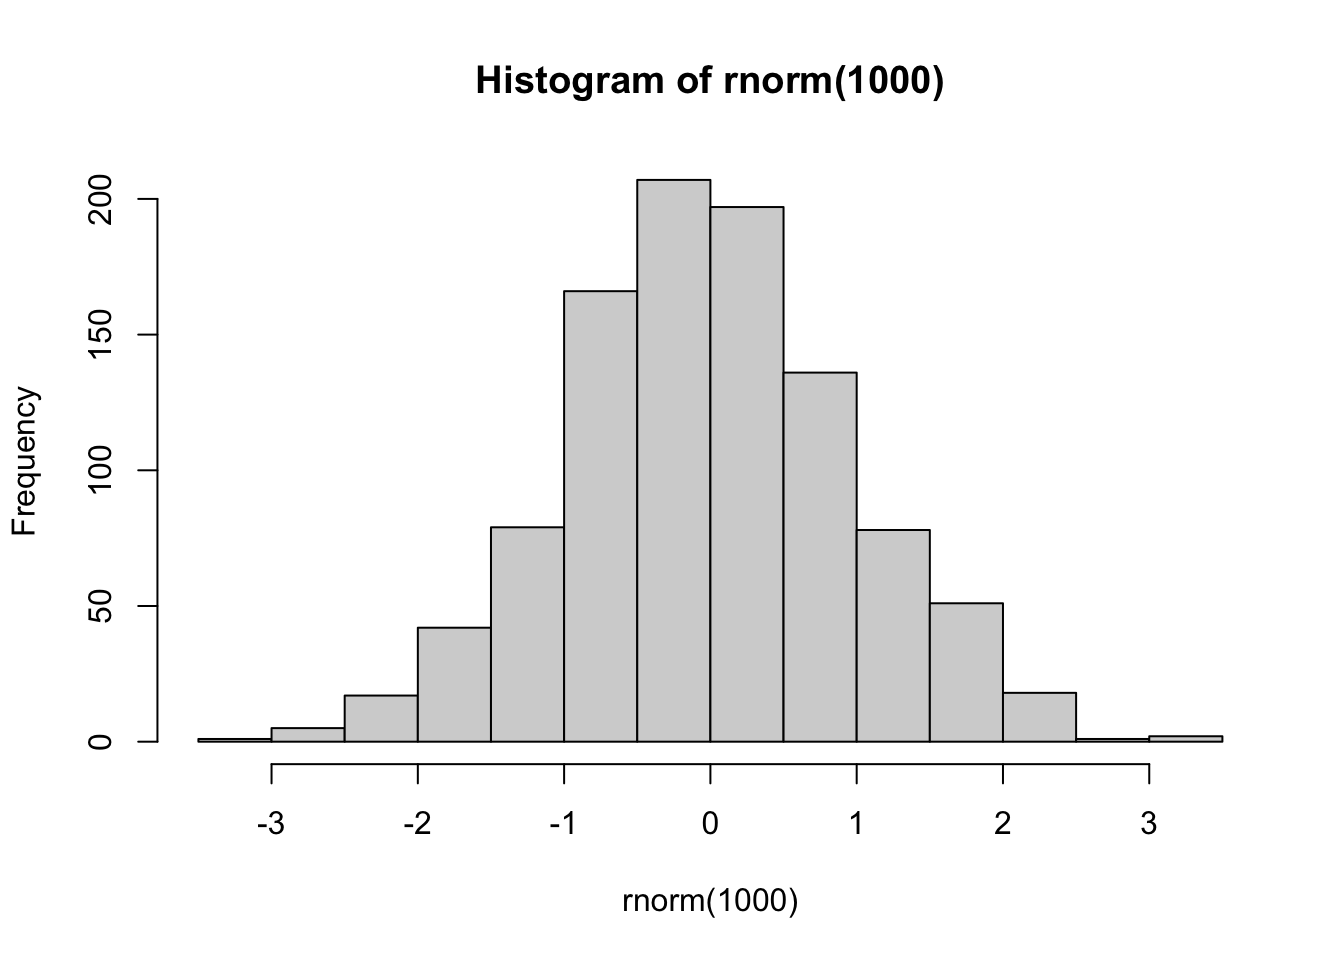
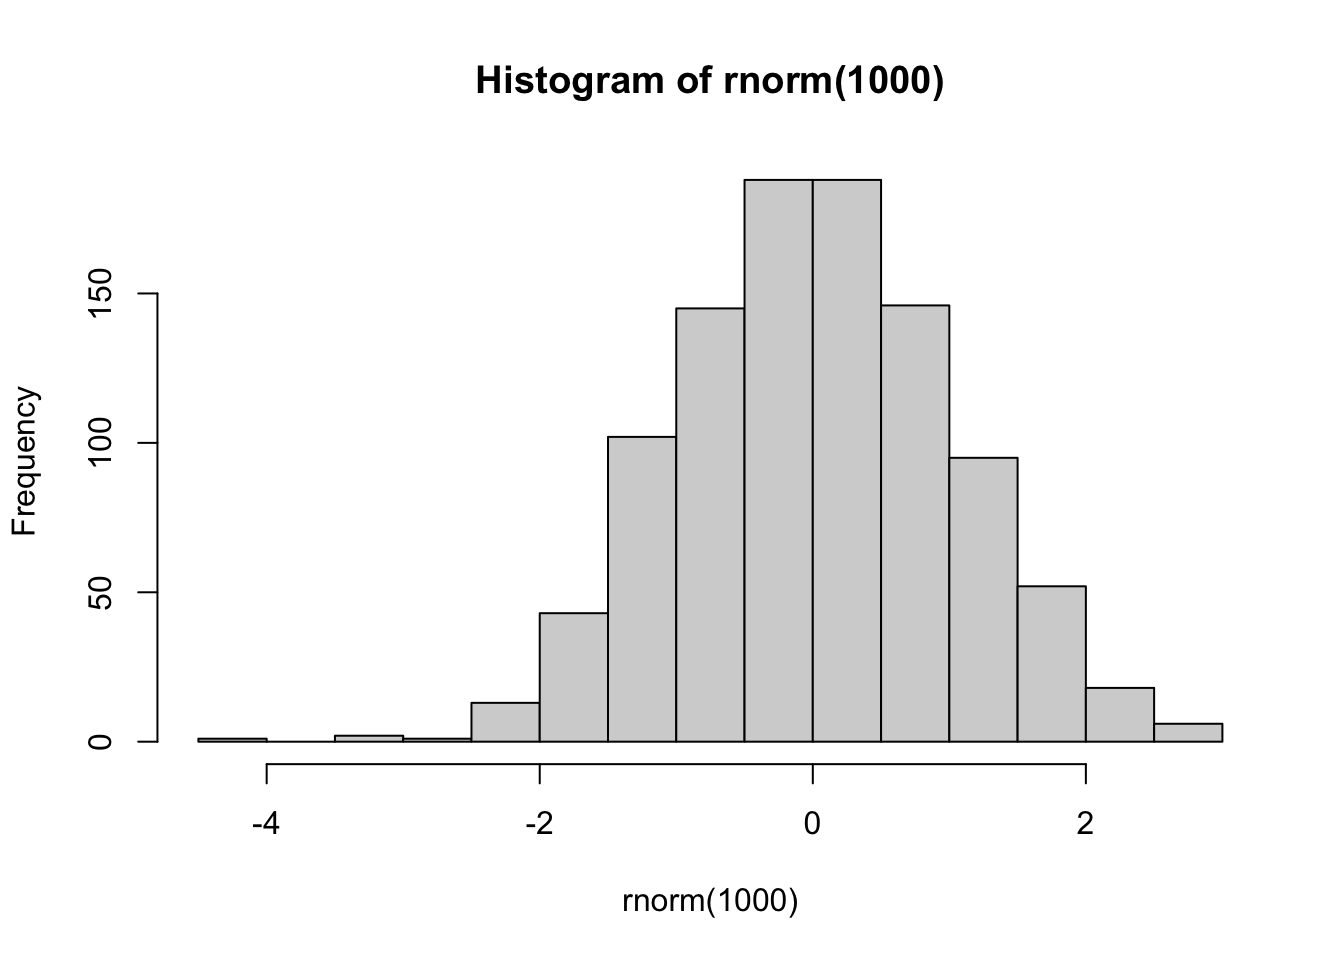
ud

diff --git a/docs/NMRanalytics.html b/docs/NMRanalytics.html
@@ -1078,15 +1078,7 @@ ul.task-list li input[type="checkbox"] {
 <h1>In Plasma only</h1>
 <section id="aminobutyric-acid" class="level2">
 <h2 class="anchored" data-anchor-id="aminobutyric-acid">2-aminobutyric acid</h2>
-<div class="cell">
-<div class="cell-output-display">
-<div>
-<figure class="figure">
-<p><img src="./img/interval_1.png" class="img-fluid figure-img" width="584"></p>
-</figure>
-</div>
-</div>
-</div>
+<pre class="{r'}"><code>knitr::include_graphics("./img/interval_1.png") </code></pre>
 </section>
 <section id="hydroxybutyric-acid-1" class="level2">
 <h2 class="anchored" data-anchor-id="hydroxybutyric-acid-1">3-hydroxybutyric acid</h2>
